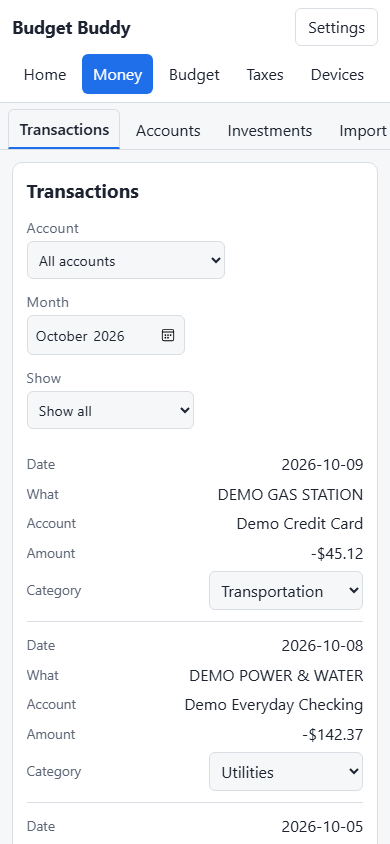
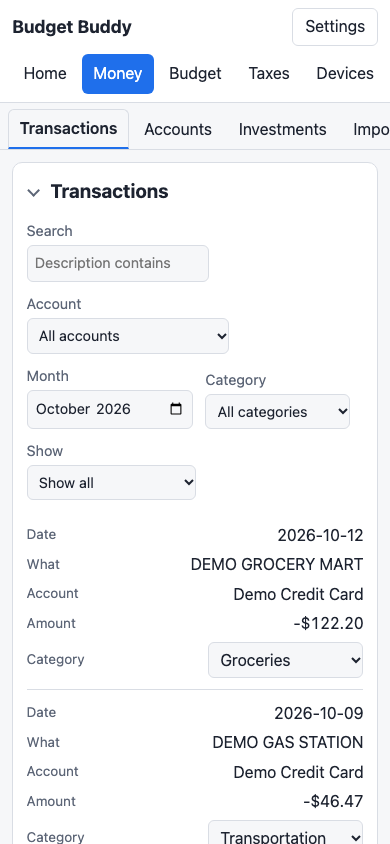
New screenshots for the README and showcase; demo spending varies by month
All six showcase screenshots are retaken from the current dashboard
(light, demo data), and a new one shows Home with folded boxes, spending
compared with last month and month by month. demo_data.py varies
everyday spending a little by month (bills stay the same), so the
month-to-month charts have something to show.

diff --git a/scripts/demo_data.py b/scripts/demo_data.py
@@ -14,6 +14,11 @@ from _local_api import ApiError, LocalApi
 from _testguard import refuse_unless_test_server
 
 DEMO_CHECKING = "Demo Everyday Checking"
+# Everyday spending changes a little from month to month (percent of the listed amount, by
+# months back), so the Home charts that compare months have something to show. Bills like rent
+# stay the same.
+EVERYDAY = {"Groceries", "Transportation", "Dining Out", "Shopping", "Entertainment", "Utilities"}
+MONTH_PERCENT = {2: 112, 1: 94, 0: 103}
 
 
 def months_back(today: dt.date, n: int) -> dt.date:
@@ -174,6 +179,8 @@ def load(api: LocalApi, today: dt.date) -> None:
             (27, "credit_card", -5150, "DEMO BISTRO", "Dining Out"),
         ]
         for d, account, cents, description, category in spending:
+            if category in EVERYDAY:
+                cents = -(-cents * MONTH_PERCENT[n] // 100)  # whole cents
             if happened(day(d)):
                 tx(account, day(d), cents, description, category)
         if happened(day(20)):

diff --git a/README.md b/README.md
@@ -21,11 +21,11 @@ with no cloud, no account and no bank passwords.
 
 | Area | Features |
 | --- | --- |
-| Getting started | A **Get started** checklist on Home; a simple view, with **All tools** one switch away in **Settings** |
+| Getting started | A **Get started** checklist on Home; a simple view, with **All tools** one switch away in **Settings**; every box folds up, and remembers it |
 | Money in | Paychecks (gross, taxes withheld, net, 401k/HSA), started for you from pay deposits in your bank file |
 | Accounts | Checking, savings, cards, loans, brokerage, retirement and HSA: import bank CSV exports or enter by hand |
-| Spending | Auto-sorted transactions (rules, and ones learned from your choices), transfers between your accounts linked for you, receipts from the phone app |
-| Budget | Suggested 50/30/20 budget from your real income and spending, monthly targets vs. actual, charts |
+| Spending | Search and filter by category; auto-sorted transactions (rules, and ones learned from your choices), transfers between your accounts linked for you, receipts from the phone app |
+| Budget | Suggested 50/30/20 budget from your real income and spending, monthly targets vs. actual, charts, this month against last month, categories grouped by kind |
 | Investments | Holdings by account at live prices (optional, Finnhub) or prices you enter; broker activity and positions files; 401(k), IRA and HSA limits |
 | Taxes | Donations, stock gains (oldest shares first, short/long-term, possible wash sales), dividends, other deductions, a yearly summary to download or print |
 | Devices | Phones and other computers at home join with a one-time code |

diff --git a/docs/showcase/overview.md b/docs/showcase/overview.md
@@ -1,6 +1,7 @@
 # Budget Buddy: a private money helper that lives at home
 
-*A plain-English tour for anyone, no technical background needed. Every screenshot uses made-up demo data.*
+*A plain-English tour for anyone, no technical background needed. Every screenshot uses made-up demo data
+(screenshots taken 2026-10-13).*
 
 ## The idea in one sentence
 
@@ -29,8 +30,17 @@ does either. Your records sit on your computer, encrypted, and your phone joins 
 ![Home: money in, spent, saved and left over, with charts](images/home.png)
 
 Four numbers answer the questions people actually ask: *How much came in? How much did I spend? How much did I
-save? What's left?* Below them, **Needs your attention** lists anything waiting for you (like a payment with no
-category); one click takes you there.
+save? What's left?* A small line under each shows how it went over the past months. Below them, **Needs your
+attention** lists anything waiting for you (like a payment with no category); one click takes you there.
+
+### See how this month compares
+
+![Home with most boxes folded, showing spending compared with last month and month by month](images/home-insights.png)
+
+**Compared with last month** shows, for each kind of spending, whether you spent more or less than last month,
+counting the same days so a half-finished month isn't compared with a whole one. **Month by month** shows money in,
+spending and saving over time. Every box folds up to its title with one click (or **Fold all**), and Budget Buddy
+remembers what you folded, so the page shows what you care about.
 
 ### Getting started is a checklist
 

diff --git a/CHANGELOG.md b/CHANGELOG.md
@@ -1,6 +1,7 @@
 # Changelog
 
 ## Unreleased
+- New screenshots in the README and the showcase tour, showing the folding boxes, the new Home charts and the Transactions search. The demo data's everyday spending now changes a little from month to month, so the month-to-month charts have something to show.
 - For maintainers: GitHub CI is paused until 2026-11-22 (it runs only by hand). When it's back it runs on pull requests into `main` and on `main`, not on stacked branches.
 - Check your stock records: the broker's positions file is now compared both ways (a stock you still hold by your records but the broker doesn't list is flagged), says whether a purchase or a sale may be missing, and counts bank-file trades still waiting for their shares. On the Stocks page each purchase and sale says what backs it up (a transaction, the broker's positions file, or **Not verified yet**), and **Show: Not verified yet** lists only those.
 - Stock trades from your bank file: lines like `ABBOTT LABORATORIES UNSOLICITED WE ARE ACTING AS PRINCIPAL ...` (Chase / J.P. Morgan) are found as purchases and sales and linked with their **deposit sweep** (`... INTRA-DAY WITHDRWAL`). Neither counts as spending or income or needs a category. The Investments page lists them with the date, company and amount; add the ticker and shares once to see the price per share and the holding (the ticker is remembered for that company's next trade). Dividend sweeps no longer show under "needs a category".

diff --git a/scripts/README.md b/scripts/README.md
@@ -13,7 +13,7 @@ files are small clients of the Home Base's this-computer-only API and never impo
 | `setup.ps1` | testers | One-time install of the Home Base (with developer tools) and the phone app's tools. |
 | `start-test-server.ps1` | testers | Starts a TEST Home Base on port 8766 with its own data folder (`-Reset` starts over). |
 | `start-phone-app.ps1` | testers | Starts the phone app for Expo Go. |
-| `load-demo-data.ps1` (`demo_data.py`) | testers | Fills the empty test Home Base with made-up accounts, spending and paychecks. |
+| `load-demo-data.ps1` (`demo_data.py`) | testers | Fills the empty test Home Base with made-up accounts, spending and paychecks (three months; everyday spending varies a little each month, so month-to-month charts have something to show). |
 | `import-csv.ps1` (`import_csv.py`) | testers | Previews a bank CSV (try `sample-bank-statement.csv`), then imports it after you confirm. |
 | `pair-phone.ps1` (`pair_phone.py`) | testers | Starts pairing and shows the QR code for the phone to scan. |
 | `test-settings.ps1` | testers | Test settings (port 8766, test data folder) on top of `paths.ps1`. |
